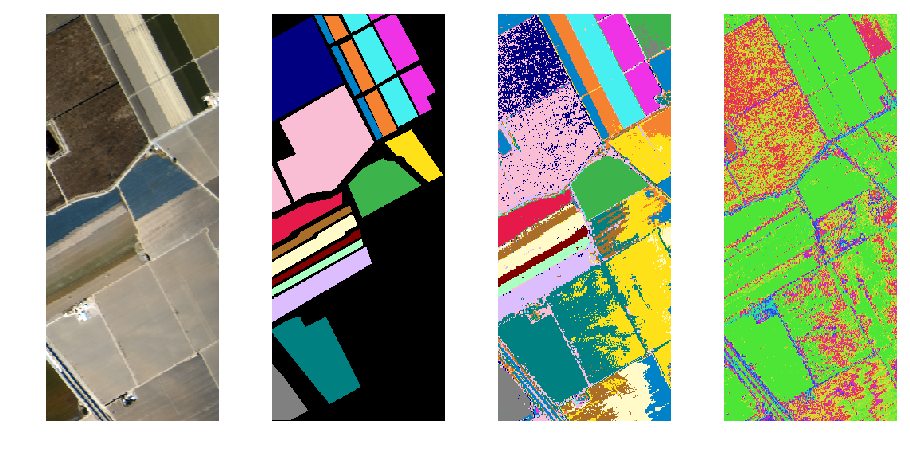
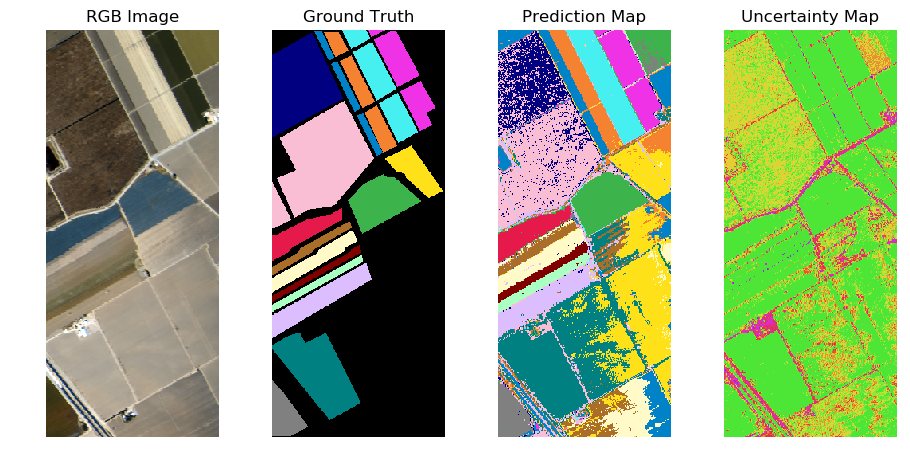
Mapas con max_H automático y slots=15

diff --git a/FPGA_accelerator_for_GBDT/high_performance_processor_python_code_and_data/generate_maps.py b/FPGA_accelerator_for_GBDT/high_performance_processor_python_code_and_data/generate_maps.py
@@ -119,18 +119,25 @@ MAP_COLOURS = [
     (245, 130, 48), (70, 240, 240), (240, 50, 230), (250, 190, 212),
     (0, 128, 128), (220, 190, 255), (170, 110, 40), (255, 250, 200),
     (128, 0, 0), (170, 255, 195), (0, 0, 128), (128, 128, 128)]
+
 MAP_GRADIENTS = [
     (77, 230, 54), (135, 229, 53), (193, 229, 52), (229, 206, 51),
     (228, 146, 50), (228, 86, 49), (228, 48, 71), (227, 47, 130),
     (227, 46, 189), (204, 45, 227), (143, 44, 226), (81, 43, 226),
-    (42, 64, 226), (41, 125, 225), (40, 185, 225), (39, 225, 202),
-    (38, 225, 142), (37, 225, 82), (36, 225, 44), (82, 225, 43),
-    (142, 225, 42), (202, 225, 41), (225, 185, 40), (225, 125, 39),
-    (225, 64, 38)
-]
+    (42, 64, 226), (41, 125, 225), (40, 185, 225), (39, 225, 202)]
+# Gradient colours from green juice to palatinate blue (https://colornamer.robertcooper.me/)
+# MAP_GRADIENTS = [
+#     (77, 230, 54), (106, 229, 53), (135, 229, 53), (164, 229, 52),
+#     (193, 229, 52), (211, 217, 51), (229, 206, 51), (228, 176, 50),
+#     (228, 146, 50), (228, 115, 49), (228, 86, 49), (228, 67, 60),
+#     (228, 48, 71), (227, 47, 100), (227, 47, 130), (227, 46, 159),
+#     (227, 46, 189), (215, 45, 207), (204, 45, 227), (173, 44, 226),
+#     (143, 44, 226), (111, 43, 226), (81, 43, 226), (61, 53, 226),
+#     (42, 64, 226)
+# ]
 
 def plot_maps(output_dir, name, shape, num_classes, wl, img, y, pred_map,
-              H_map, colours=MAP_COLOURS, gradients=MAP_GRADIENTS, max_H=0, slots=0):
+              H_map, colours=MAP_COLOURS, gradients=MAP_GRADIENTS, max_H=0, slots=15):
     """Generates and saves the `uncertainty map` plot of a dataset
     
     This plot shows an RGB representation of the hyperspectral image,
@@ -167,7 +174,7 @@ def plot_maps(output_dir, name, shape, num_classes, wl, img, y, pred_map,
         List of colours for the prediction map classes.
     gradients : list of RGB tuples, optional (default: MAP_GRADIENTS)
         List of colours for the uncertainty map groups of values.
-    slots : int, optional (default: 0)
+    slots : int, optional (default: 15)
         Number of groups to divide uncertainty map values. If set to 0,
         `slots` will be set to `max_H * 10`.
     max_H : float, optional (default: 0)
@@ -180,7 +187,10 @@ def plot_maps(output_dir, name, shape, num_classes, wl, img, y, pred_map,
     # -------------------------------------------------------------------------
     
     # Select shape and size depending on the dataset
-    if name in ["indian_pines_corrected", "KSC"]:
+    if name=="indian_pines_corrected":
+        fig, ((ax1, ax2), (ax3, ax4)) = plt.subplots(2, 2)
+        fig.set_size_inches(8*shape[1]/96, 8*shape[0]/96)
+    elif name=="KSC":
         fig, ((ax1, ax2), (ax3, ax4)) = plt.subplots(2, 2)
         fig.set_size_inches(2*shape[1]/96, 2*shape[0]/96)
     else:
@@ -208,6 +218,7 @@ def plot_maps(output_dir, name, shape, num_classes, wl, img, y, pred_map,
     # Create and show RGB image (D65 illuminant and 0.002 threshold)
     RGB_img = HSI2RGB(wl, img, shape[0], shape[1], 65, 0.002)
     ax1.imshow(RGB_img)
+    ax1.set_title("RGB Image")
     
     # GROUND TRUTH GENERATION
     # -------------------------------------------------------------------------
@@ -215,6 +226,7 @@ def plot_maps(output_dir, name, shape, num_classes, wl, img, y, pred_map,
     # Generate and show coloured ground truth
     gt = _map_to_img(y, shape, [(0, 0, 0)] + colours[:num_classes])
     ax2.imshow(gt)
+    ax2.set_title("Ground Truth")
     
     # PREDICTION MAP GENERATION
     # -------------------------------------------------------------------------
@@ -222,6 +234,7 @@ def plot_maps(output_dir, name, shape, num_classes, wl, img, y, pred_map,
     # Generate and show coloured prediction map
     pred_H_img = _map_to_img(pred_map, shape, colours[:num_classes])
     ax3.imshow(pred_H_img)
+    ax3.set_title("Prediction Map")
     
     # UNCERTAINTY MAP GENERATION
     # -------------------------------------------------------------------------
@@ -237,6 +250,7 @@ def plot_maps(output_dir, name, shape, num_classes, wl, img, y, pred_map,
         slots = int(max_H * 10)
     H_img = _map_to_img(u_map, shape, gradients[:slots])
     ax4.imshow(H_img)
+    ax4.set_title("Uncertainty Map")
     
     # PLOT COMBINED IMAGE
     # -------------------------------------------------------------------------
